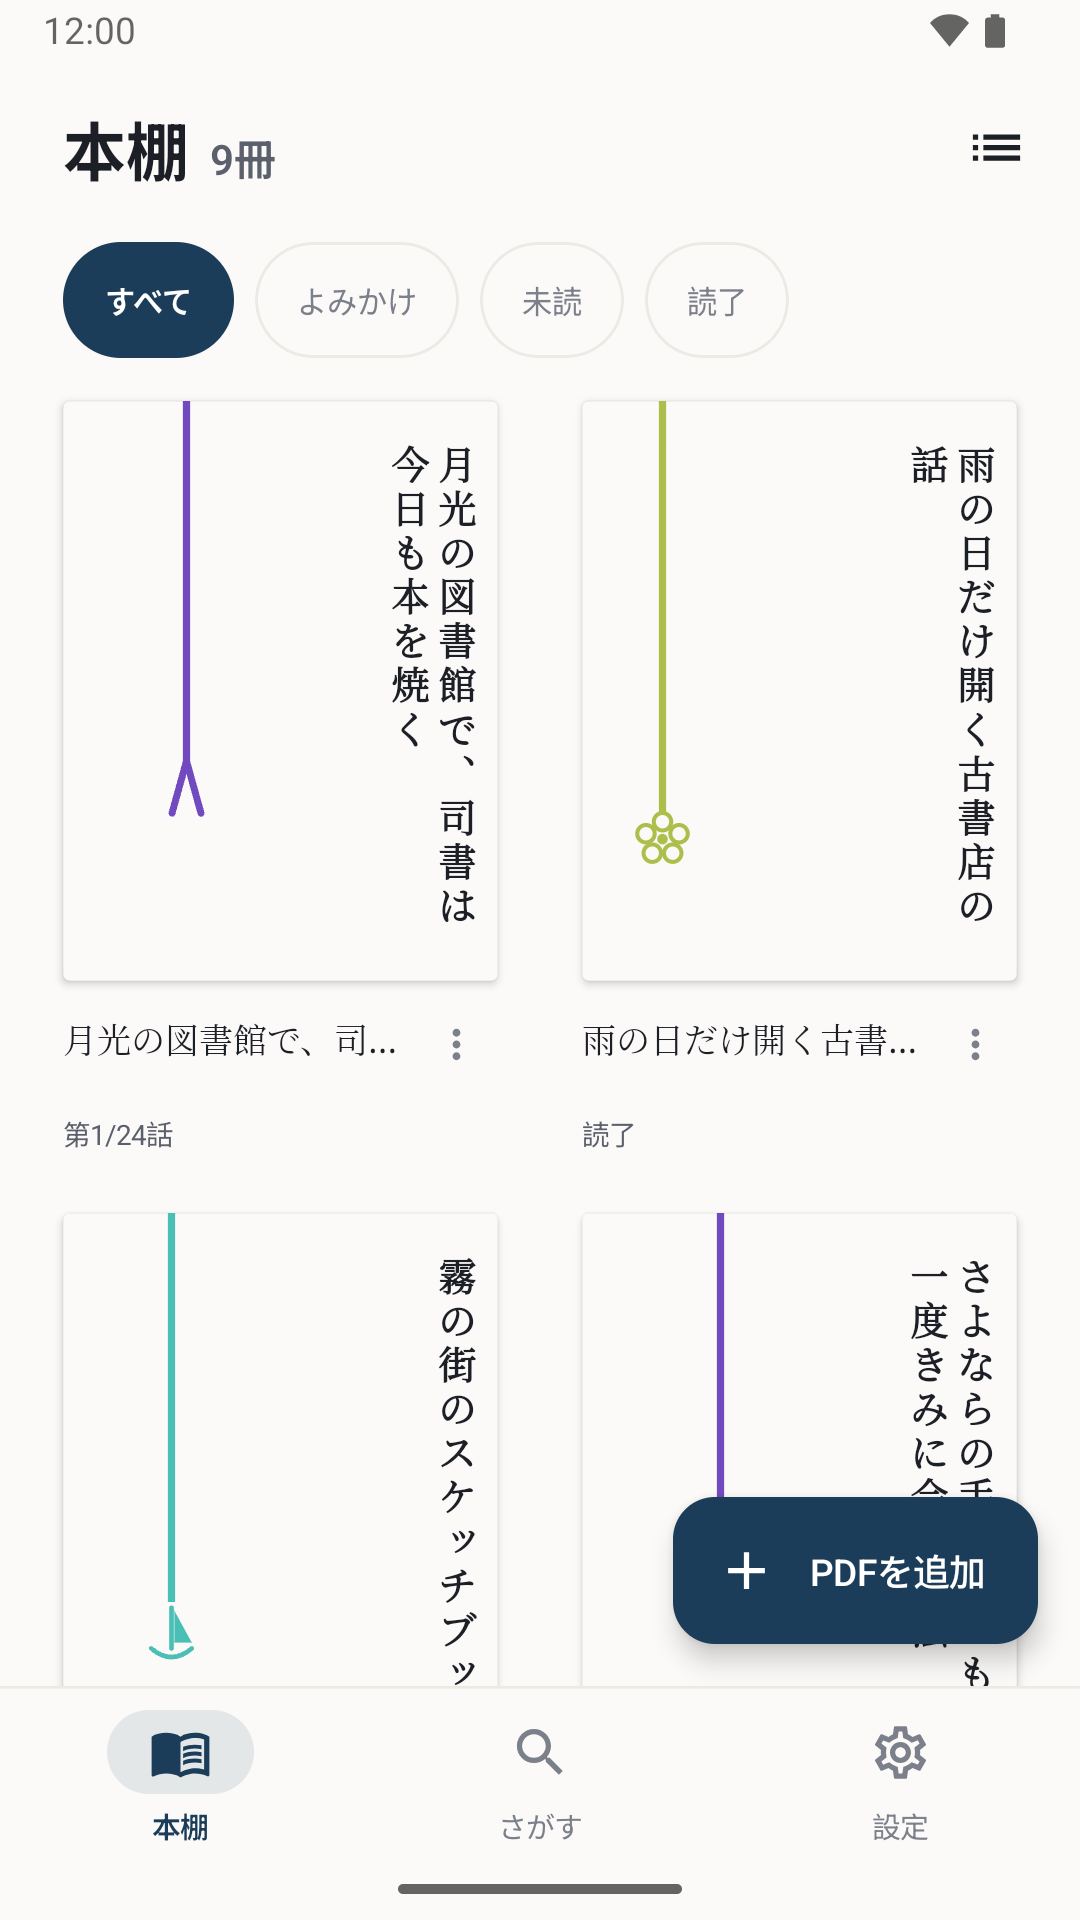
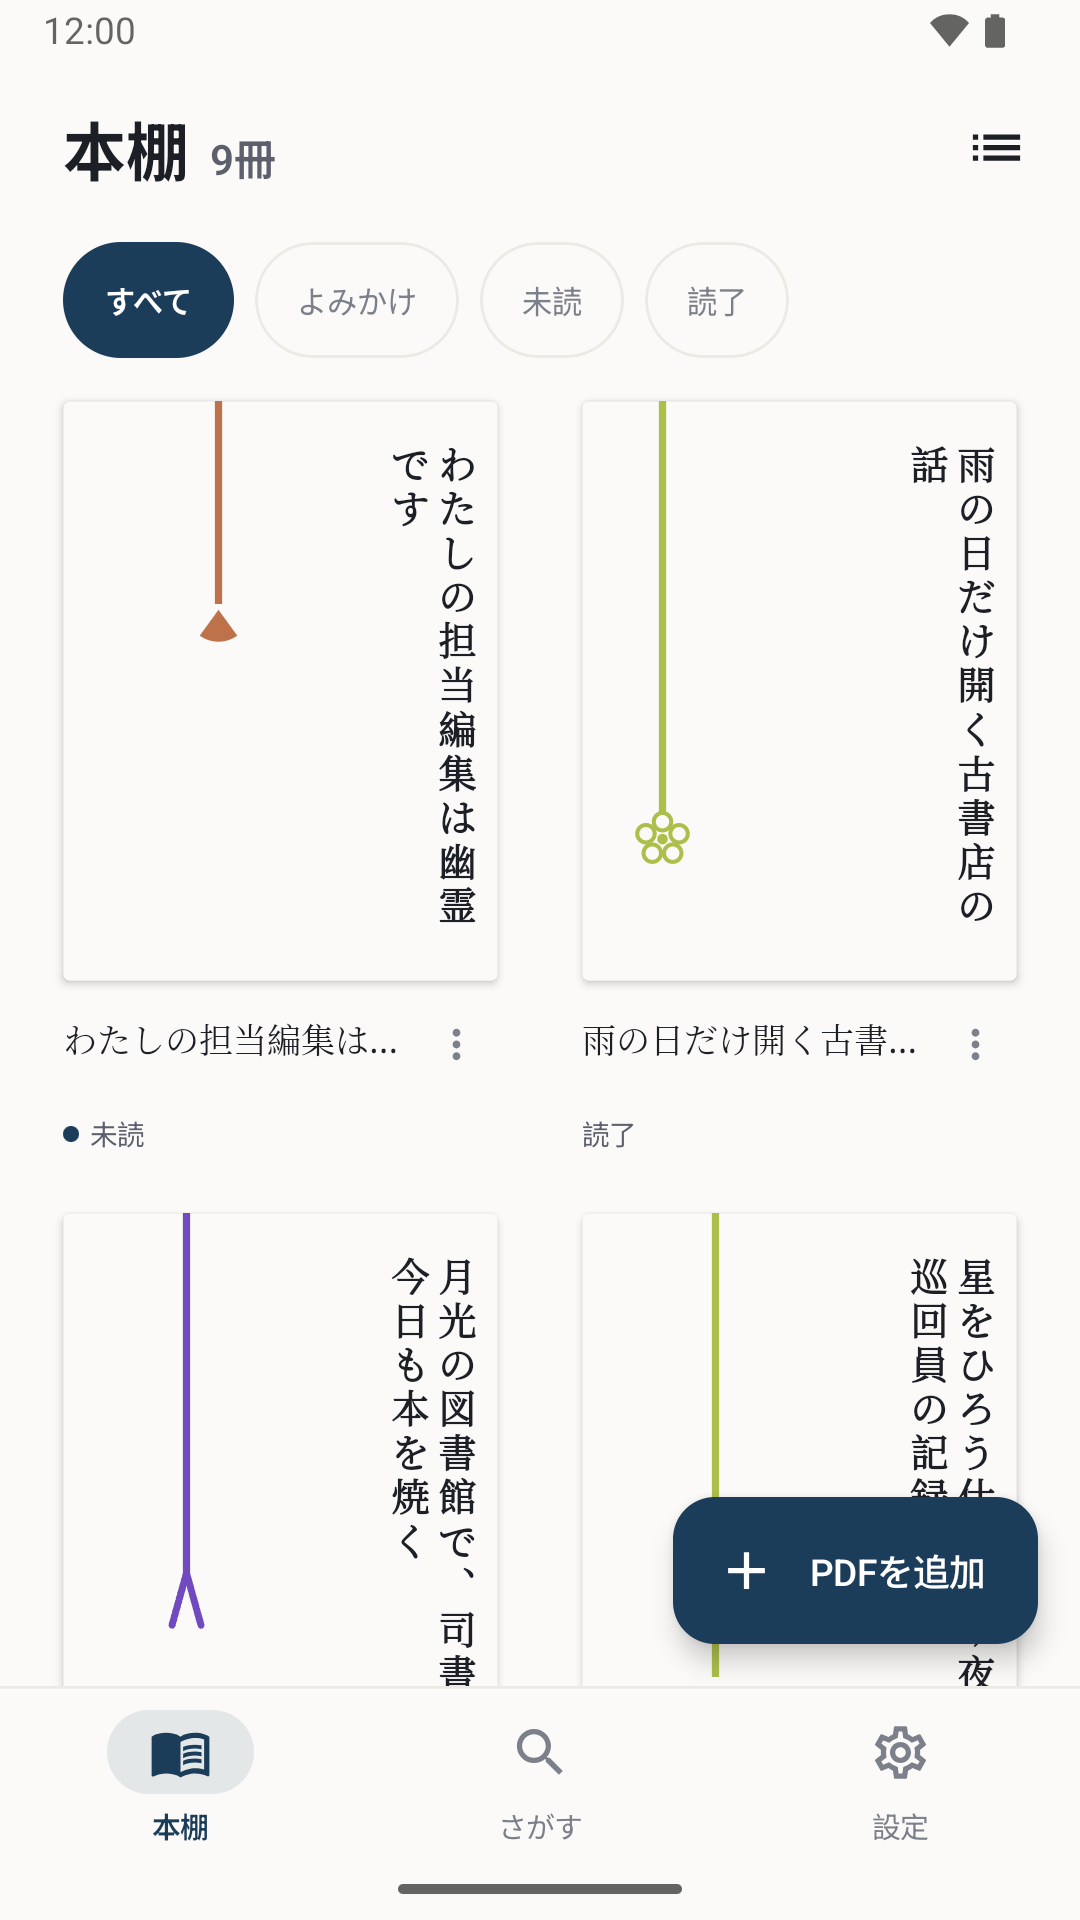
docs: ストア用スクショ6枚を release ビルドで撮り直し、掲載文との対応表を作る
release APK で撮る（debug は「開発」節・きせかえ行・装いの間が写る＝初回リリースに
存在しないものが写る／ADR 0027）。pkgFlags から DEBUGGABLE が消えていること、
表示設定シートのテキストノードに「きせかえ」も「装いの間」も無いことを列挙して確認した。

⚠ release 用の正式な鍵はまだ無い（local.properties に release.* が無く Gradle は
未署名 APK しか出さない）。撮影には debug 鍵で署名した release ビルドを使った＝
R8 収縮済みの本体で、違うのは署名鍵だけ。提出時には正式な鍵が要る。

実在作品が1文字も写らないことを3方向で確認（books が demo01〜09 の9行のみ・
files/novels も同じ9件・6枚を1枚ずつ目視）。さがす画面はランキング本体が画面外。

seed スクリプトは progress を空にするため、そのままでは棚が全冊未読・読了率0%で
掲載文の主張を裏付けられない。未読1・よみかけ6・読了2 を作り、二層ソートで未読が
最上位に来る性質を踏まえて先頭2行に状態が揃うようにした。

phone-1/3/6 は前版とバイト同一（md5 一致）＝今日の release ビルドで決定的に同じ絵が出た。

diff --git a/docs/store/assets/README.md b/docs/store/assets/README.md
@@ -98,6 +98,30 @@ mockview docs/store/assets/screenshots/contact-sheet.html
 タブレット（任意・推奨＝4枚。同じ訴求の大画面版）:
 `tablet-1-shelf.png`（5列グリッド＋ナビレール・先頭行に未読/よみかけ/読了が揃う）／`tablet-2-vertical-ruby.png`（1話がほぼ全部見える）／`tablet-3-discover.png`／`tablet-4-toc.png`
 
+### 掲載文（`../listing-draft.md` §3）の主張との対応
+
+**なぜこの表を置くか**: スクショは「絵として良いか」だけでなく **文章で約束したことが画面で裏付けられているか**で採否が決まる。
+Play は掲載文と実物の不一致を掲載停止事由に置くので、主張と画面を1対1で突き合わせられる形にしておく。
+
+| # | ファイル | 掲載文§3 の主張（これを裏付ける） |
+|---|---|---|
+| 1 | `phone-1-vertical-ruby.png` | 「ふりがな（ルビ）が付いたまま表示します」「ふりがな付きの縦書き／横書き表示」 |
+| 2 | `phone-2-shelf.png` | 「本棚で蔵書を管理」「読みかけ・読了などの状態で絞り込んで探せます」（すべて/よみかけ/未読/読了のチップと各カードの状態表示） |
+| 3 | `phone-3-reading-settings.png` | 「文字サイズや行間を変えても崩れません」「読書中の設定からいつでも縦書きに切り替えられます」 |
+| 4 | `phone-4-toc.png` | 「目次では既読の話に印が付き、読みかけの位置からすぐ再開できます」（既読✓の連なり＋現在地チップ＋読了率） |
+| 5 | `phone-5-discover.png` | 「小説家になろう … 公式APIによる検索・ランキング閲覧」 |
+| 6 | `phone-6-horizontal.png` | 「縦書き・横書きはお好みで選べます」「表示は横書きが初期設定」 |
+
+**画面で裏付けられない主張**（＝文言側だけで言う。撮ろうとしないこと）:
+「広告を表示しません」「アカウント登録が不要」「オフラインで読める」はいずれも**不在・非機能**で写真に写らない。
+「新着のお知らせ（初期設定はオフ）」は設定画面にあるが、6枚の訴求順に入れる価値が薄く今回は撮っていない。
+
+⚠ **掲載文との食い違い（2026-08-26 の撮影で判明・文言側は未修正）**:
+§3 は並び順を「**最後に読んだ本が上に来る『最近の活動順』**」と書いているが、実装は
+**二層ソートで未読を常に最上位**に置く（`BookDao.getAllBooks` の ORDER BY＝ADR 0016 の 2026-07-16 層反転）。
+`phone-2-shelf.png` はまさにその状態で、**先頭行は未読2冊・直前に読了した本は2行目**に写っている＝
+掲載文の記述と画面が食い違う。**文言の修正は人間の裁定領域**（`../listing-draft.md` は触っていない）。
+
 ### 撮り直しの手順
 
 **必ず release APK で撮る**（`app-release-debugsigned.apk`）。debug ビルドは①設定に「開発」節が出る
